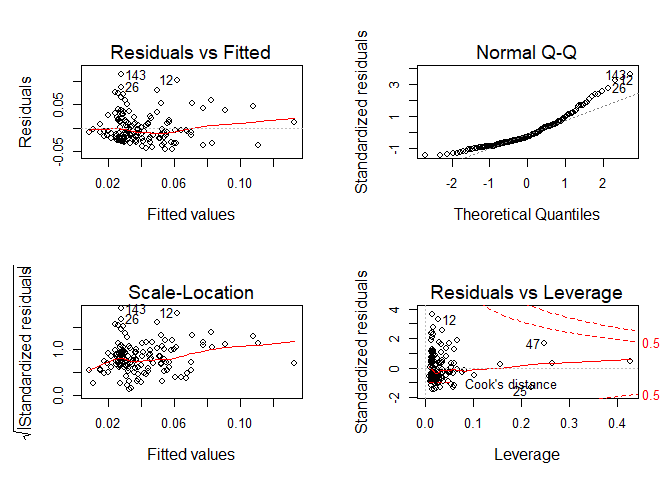
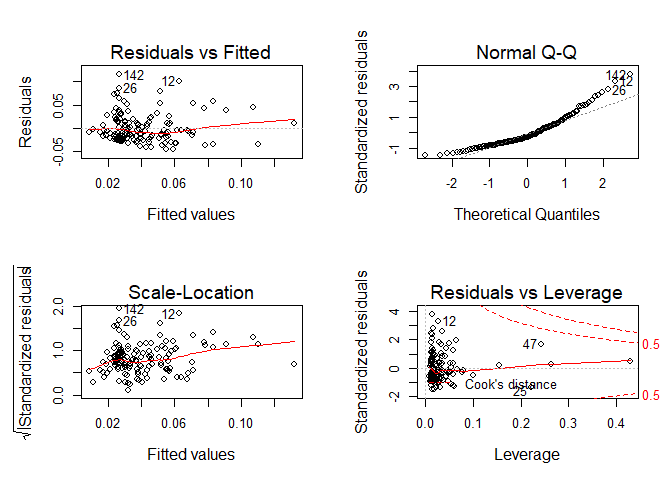
Modified report to fix typos and grammatical errors close #4

diff --git a/doc/report.md b/doc/report.md
@@ -18,31 +18,32 @@ Fanli Zhou
 
 # Summary
 
-In this project, I attempted to use multiple linear regression and GLM
-models to study the relationship between the portion of the senior (age
-65 and up) in the population and the COVID-19 death rate. To approch
-this problem, I tested 11 potential confounding variables and several
-models. My final statistical model is a GLM model including only two
-confounding variables, `med_bed` (the number of hospital beds per 1,000
-people) and `death_100_ind` (the ratio of days with fewer than 100
-accumulated deaths since January 21th, 2020). I assessed the model with
-bootstrapping and provided some evidence that the COVID-19 death rate is
-positively associated with the portion of the senior in the population.
+In this project, I attempted to use multiple linear regression and
+general linear models to study the relationship between the portion of
+the senior (age 65 and up) in the population and the COVID-19 death
+rate. To approach this problem, I tested 11 potential confounding
+variables and several statistical models. My final statistical model is
+a GLM model including only two confounding variables, `med_bed` (the
+number of hospital beds per 1,000 people) and `death_100_ind` (the ratio
+of days with fewer than 100 accumulated deaths from 1/21/2020 to
+5/14/2020). I assessed the model with bootstrapping and provided some
+evidence that the COVID-19 death rate is positively associated with the
+portion of the senior in the population.
 
 # Introduction
 
-The world is fighting with the COVID-19. The COVID-19 is a new disease
-and we are updating our knowledge about it everyday. One well document
+The world is fighting with COVID-19. The COVID-19 is a new disease and
+we are updating our knowledge about it every day. One well document
 factor that leads to death from COVID-19 is age. As reported by the US
 [CDC](https://www.cdc.gov/coronavirus/2019-ncov/need-extra-precautions/older-adults.html),
-adults 65 years old and older have high risk “for developing more
+adults 65 years old and older have a high risk “for developing more
 serious complications from COVID-19 illness” (cdc.gov 2020). In other
-word, the COVID-19 death rate for the senior is higher than that for the
-younger people. This conclusion is based on the COVID-19 deaths
+words, the COVID-19 death rate for the senior is higher than that for
+the younger people. This conclusion is based on the COVID-19 deaths
 statistics in the US.
 
 To further support this conclusion, I decided to study the relationship
-bewteen age and the COVID-19 death rate with data science techniques.
+between age and the COVID-19 death rate with data science techniques.
 Considering that COVID-19 patient information would not be public to
 protect privacy, I would instead study the relationship between
 population aging and the COVID-19 death rate. Here is my research
@@ -57,14 +58,14 @@ associate with the COVID-19 death rate?**
       - The portion of the senior (age 65 and up) in the population is
         not associated with the COVID-19 death rate.
 
-  - Alternative hypothesis
+  - The alternative hypothesis
     (![H\_A](https://latex.codecogs.com/png.latex?H_A "H_A")):
     
       - The portion of the senior (age 65 and up) in the population is
         associated with the COVID-19 death rate.
 
 This study would help address the relationship between age and the
-COVID-19 death rate. And hopefully, it would bring more attentions to
+COVID-19 death rate. And hopefully, it would bring more attention to
 protect the senior people from COVID-19 and protect ourselves.
 
 # Methods
@@ -79,38 +80,38 @@ are from the [data
 repository](https://github.com/CSSEGISandData/COVID-19) for the 2019
 Novel Coronavirus Visual Dashboard operated by the Johns Hopkins
 University Center for Systems Science and Engineering (JHU CSSE). The
-dataset is updated everyday starting from January 22nd, 2020. Both
+dataset is updated every day starting from January 22nd, 2020. Both
 datasets contain columns of location information (`Province/State`,
-`Country/Region`, `Lat`, and `Long`) or daily accumulated number of
+`Country/Region`, `Lat`, and `Long`) or daily accumulated numbers of
 confirmed or deaths in the corresponding location, starting from
-`1/22/20` to present. As stated in the dataset repository, “Australia,
-Canada and China are reported at the province/state level. Dependencies
-of the Netherlands, the UK, France and Denmark are listed under the
-province/state level. The US and other countries are at the country
-level.” The datasets combine data from multiple sources and may contain
-mistakes.
+`1/22/20` to present (`5/14/2020`). As stated in the dataset repository,
+“Australia, Canada and China are reported at the province/state level.
+Dependencies of the Netherlands, the UK, France, and Denmark are listed
+under the province/state level. The US and other countries are at the
+country level.” The datasets combine data from multiple sources and may
+contain mistakes.
 
-Here is information of variables used in this study:
+Here is the information of variables used in this study:
 
-| varaiable Name    | Min   | Max   | Description and Source                                                                                                                                                                                                                                                                                                                                                                                                                                                                                                                                                                                                                                                                                                                                                                                                  |
-| ----------------- | ----- | ----- | ----------------------------------------------------------------------------------------------------------------------------------------------------------------------------------------------------------------------------------------------------------------------------------------------------------------------------------------------------------------------------------------------------------------------------------------------------------------------------------------------------------------------------------------------------------------------------------------------------------------------------------------------------------------------------------------------------------------------------------------------------------------------------------------------------------------------- |
-| `rate`            | 0     | 0.16  | For each country, the death rate is calculated by ![\\frac{N\_{\\text{COVID-19 death}}}{N\_{\\text{COVID-19 confirmed}}}](https://latex.codecogs.com/png.latex?%5Cfrac%7BN_%7B%5Ctext%7BCOVID-19%20death%7D%7D%7D%7BN_%7B%5Ctext%7BCOVID-19%20confirmed%7D%7D%7D "\\frac{N_{\\text{COVID-19 death}}}{N_{\\text{COVID-19 confirmed}}}") with data from [global confirmed](https://github.com/CSSEGISandData/COVID-19/blob/master/csse_covid_19_data/csse_covid_19_time_series/time_series_covid19_confirmed_global.csv) and [global death](https://github.com/CSSEGISandData/COVID-19/blob/master/csse_covid_19_data/csse_covid_19_time_series/time_series_covid19_deaths_global.csv) datasets                                                                                                                           |
-| `age_65up`        | 1.09  | 27.58 | [Population ages 65 and above (% of total population)](https://data.worldbank.org/indicator/SP.POP.65UP.TO.ZS) from the [World Bank Open Data](https://data.worldbank.org/)                                                                                                                                                                                                                                                                                                                                                                                                                                                                                                                                                                                                                                             |
-| `air_pollution`   | 5.86  | 99.73 | [PM2.5 air pollution, mean annual exposure (micrograms per cubic meter)](https://data.worldbank.org/indicator/EN.ATM.PM25.MC.M3) from the World Bank Open Data                                                                                                                                                                                                                                                                                                                                                                                                                                                                                                                                                                                                                                                          |
-| `med_bed`         | 0.1   | 13.4  | [Hospital beds (per 1,000 people)](https://data.worldbank.org/indicator/SH.MED.BEDS.ZS)                                                                                                                                                                                                                                                                                                                                                                                                                                                                                                                                                                                                                                                                                                                                 |
-| `physicians`      | 0     | 8.19  | [Physicians (per 1,000 people)](https://data.worldbank.org/indicator/SH.MED.PHYS.ZS) from the World Bank Open Data                                                                                                                                                                                                                                                                                                                                                                                                                                                                                                                                                                                                                                                                                                      |
-| `nurses_midwives` | 0.06  | 18.12 | [Nurses and midwives (per 1,000 people)](https://data.worldbank.org/indicator/SH.MED.NUMW.P3) from the World Bank Open Data                                                                                                                                                                                                                                                                                                                                                                                                                                                                                                                                                                                                                                                                                             |
-| `pop_density`     | 2.04  | 7953  | [Population density (people per sq. km of land area)](https://data.worldbank.org/indicator/EN.POP.DNST) from the World Bank Open Data                                                                                                                                                                                                                                                                                                                                                                                                                                                                                                                                                                                                                                                                                   |
-| `smoking`         | 2     | 43.4  | [Smoking prevalence, total (ages 15+)](https://data.worldbank.org/indicator/SH.PRV.SMOK) from the World Bank Open Data                                                                                                                                                                                                                                                                                                                                                                                                                                                                                                                                                                                                                                                                                                  |
-| `con_500_ind`     | 0     | 1     | The ratio of days with fewer than 500 confirmed cases (accumulated) is calculated by ![\\frac{N\_{\\text{days with 1-500 confirmed cases since 1/21/2020}}}{N\_{\\text{days with more than one confirmed cases since 1/21/2020}}}](https://latex.codecogs.com/png.latex?%5Cfrac%7BN_%7B%5Ctext%7Bdays%20with%201-500%20confirmed%20cases%20since%201%2F21%2F2020%7D%7D%7D%7BN_%7B%5Ctext%7Bdays%20with%20more%20than%20one%20confirmed%20cases%20since%201%2F21%2F2020%7D%7D%7D "\\frac{N_{\\text{days with 1-500 confirmed cases since 1/21/2020}}}{N_{\\text{days with more than one confirmed cases since 1/21/2020}}}") with data from the [global confirmed](https://github.com/CSSEGISandData/COVID-19/blob/master/csse_covid_19_data/csse_covid_19_time_series/time_series_covid19_confirmed_global.csv) dataset |
-| `death_100_ind`   | 0     | 1     | The ratio of days with fewer than 100 deaths (accumulated) is calculated by ![\\frac{N\_{\\text{days with 1-100 deaths since 1/21/2020}}}{N\_{\\text{days with more than one deaths since 1/21/2020}}}](https://latex.codecogs.com/png.latex?%5Cfrac%7BN_%7B%5Ctext%7Bdays%20with%201-100%20deaths%20since%201%2F21%2F2020%7D%7D%7D%7BN_%7B%5Ctext%7Bdays%20with%20more%20than%20one%20deaths%20since%201%2F21%2F2020%7D%7D%7D "\\frac{N_{\\text{days with 1-100 deaths since 1/21/2020}}}{N_{\\text{days with more than one deaths since 1/21/2020}}}") with data from the [global death](https://github.com/CSSEGISandData/COVID-19/blob/master/csse_covid_19_data/csse_covid_19_time_series/time_series_covid19_deaths_global.csv) dataset                                                                           |
-| `confirmed_rate`  | 0     | 0.04  | The confirmed rate is calculated by ![\\frac{N\_{\\text{COVID-19 confirmed}}}{N\_{\\text{population}}}](https://latex.codecogs.com/png.latex?%5Cfrac%7BN_%7B%5Ctext%7BCOVID-19%20confirmed%7D%7D%7D%7BN_%7B%5Ctext%7Bpopulation%7D%7D%7D "\\frac{N_{\\text{COVID-19 confirmed}}}{N_{\\text{population}}}") with data from the [global confirmed](https://github.com/CSSEGISandData/COVID-19/blob/master/csse_covid_19_data/csse_covid_19_time_series/time_series_covid19_confirmed_global.csv) dataset and the [population, total](https://data.worldbank.org/indicator/SP.POP.TOTL) dataset from the World Bank Open Data                                                                                                                                                                                              |
-| `gov_resp`        | 18.25 | 100   | This value is the highest stringency index for each country from the [Oxford Covid-19 Government Response Tracker data](https://raw.githubusercontent.com/OxCGRT/covid-policy-tracker/master/data/OxCGRT_latest.csv) from the [Oxford Covid-19 Government Response Tracker repository](https://github.com/OxCGRT/covid-policy-tracker/)                                                                                                                                                                                                                                                                                                                                                                                                                                                                                 |
-| `ind_80`          | 0.15  | 1     | This index is calculated by ![\\frac{N\_{\\text{days with 0-80 stringency index since 1/21/2020}}}{N\_{\\text{days since 1/21/2020}}}](https://latex.codecogs.com/png.latex?%5Cfrac%7BN_%7B%5Ctext%7Bdays%20with%200-80%20stringency%20index%20since%201%2F21%2F2020%7D%7D%7D%7BN_%7B%5Ctext%7Bdays%20since%201%2F21%2F2020%7D%7D%7D "\\frac{N_{\\text{days with 0-80 stringency index since 1/21/2020}}}{N_{\\text{days since 1/21/2020}}}") with data from the [Oxford Covid-19 Government Response Tracker data](https://raw.githubusercontent.com/OxCGRT/covid-policy-tracker/master/data/OxCGRT_latest.csv)                                                                                                                                                                                                        |
+| varaiable Name    | Min   | Max   | Description and Source                                                                                                                                                                                                                                                                                                                                                                                                                                                                                                                                                                                                                                                                                                                                                                                                                              |
+| ----------------- | ----- | ----- | --------------------------------------------------------------------------------------------------------------------------------------------------------------------------------------------------------------------------------------------------------------------------------------------------------------------------------------------------------------------------------------------------------------------------------------------------------------------------------------------------------------------------------------------------------------------------------------------------------------------------------------------------------------------------------------------------------------------------------------------------------------------------------------------------------------------------------------------------- |
+| `rate`            | 0     | 0.16  | For each country, the death rate (by 5/14/2020) is calculated by ![\\frac{N\_{\\text{COVID-19 death}}}{N\_{\\text{COVID-19 confirmed}}}](https://latex.codecogs.com/png.latex?%5Cfrac%7BN_%7B%5Ctext%7BCOVID-19%20death%7D%7D%7D%7BN_%7B%5Ctext%7BCOVID-19%20confirmed%7D%7D%7D "\\frac{N_{\\text{COVID-19 death}}}{N_{\\text{COVID-19 confirmed}}}") with data from [global confirmed](https://github.com/CSSEGISandData/COVID-19/blob/master/csse_covid_19_data/csse_covid_19_time_series/time_series_covid19_confirmed_global.csv) and [global death](https://github.com/CSSEGISandData/COVID-19/blob/master/csse_covid_19_data/csse_covid_19_time_series/time_series_covid19_deaths_global.csv) datasets                                                                                                                                        |
+| `age_65up`        | 1.09  | 27.58 | [Population ages 65 and above (% of total population)](https://data.worldbank.org/indicator/SP.POP.65UP.TO.ZS) from the [World Bank Open Data](https://data.worldbank.org/)                                                                                                                                                                                                                                                                                                                                                                                                                                                                                                                                                                                                                                                                         |
+| `air_pollution`   | 5.86  | 99.73 | [PM2.5 air pollution, mean annual exposure (micrograms per cubic meter)](https://data.worldbank.org/indicator/EN.ATM.PM25.MC.M3) from the World Bank Open Data                                                                                                                                                                                                                                                                                                                                                                                                                                                                                                                                                                                                                                                                                      |
+| `med_bed`         | 0.1   | 13.4  | [Hospital beds (per 1,000 people)](https://data.worldbank.org/indicator/SH.MED.BEDS.ZS)                                                                                                                                                                                                                                                                                                                                                                                                                                                                                                                                                                                                                                                                                                                                                             |
+| `physicians`      | 0     | 8.19  | [Physicians (per 1,000 people)](https://data.worldbank.org/indicator/SH.MED.PHYS.ZS) from the World Bank Open Data                                                                                                                                                                                                                                                                                                                                                                                                                                                                                                                                                                                                                                                                                                                                  |
+| `nurses_midwives` | 0.06  | 18.12 | [Nurses and midwives (per 1,000 people)](https://data.worldbank.org/indicator/SH.MED.NUMW.P3) from the World Bank Open Data                                                                                                                                                                                                                                                                                                                                                                                                                                                                                                                                                                                                                                                                                                                         |
+| `pop_density`     | 2.04  | 7953  | [Population density (people per sq. km of land area)](https://data.worldbank.org/indicator/EN.POP.DNST) from the World Bank Open Data                                                                                                                                                                                                                                                                                                                                                                                                                                                                                                                                                                                                                                                                                                               |
+| `smoking`         | 2     | 43.4  | [Smoking prevalence, total (ages 15+)](https://data.worldbank.org/indicator/SH.PRV.SMOK) from the World Bank Open Data                                                                                                                                                                                                                                                                                                                                                                                                                                                                                                                                                                                                                                                                                                                              |
+| `con_500_ind`     | 0     | 1     | The ratio of days with fewer than 500 confirmed cases (accumulated) is calculated by ![\\frac{N\_{\\text{days with 1-500 confirmed cases 1/21/2020-5/14/2020}}}{N\_{\\text{days with more than one confirmed cases 1/21/2020-5/14/2020}}}](https://latex.codecogs.com/png.latex?%5Cfrac%7BN_%7B%5Ctext%7Bdays%20with%201-500%20confirmed%20cases%201%2F21%2F2020-5%2F14%2F2020%7D%7D%7D%7BN_%7B%5Ctext%7Bdays%20with%20more%20than%20one%20confirmed%20cases%201%2F21%2F2020-5%2F14%2F2020%7D%7D%7D "\\frac{N_{\\text{days with 1-500 confirmed cases 1/21/2020-5/14/2020}}}{N_{\\text{days with more than one confirmed cases 1/21/2020-5/14/2020}}}") with data from the [global confirmed](https://github.com/CSSEGISandData/COVID-19/blob/master/csse_covid_19_data/csse_covid_19_time_series/time_series_covid19_confirmed_global.csv) dataset |
+| `death_100_ind`   | 0     | 1     | The ratio of days with fewer than 100 deaths (accumulated) is calculated by ![\\frac{N\_{\\text{days with 1-100 deaths 1/21/2020-5/14/2020}}}{N\_{\\text{days with more than one deaths since 1/21/2020-5/14/2020}}}](https://latex.codecogs.com/png.latex?%5Cfrac%7BN_%7B%5Ctext%7Bdays%20with%201-100%20deaths%201%2F21%2F2020-5%2F14%2F2020%7D%7D%7D%7BN_%7B%5Ctext%7Bdays%20with%20more%20than%20one%20deaths%20since%201%2F21%2F2020-5%2F14%2F2020%7D%7D%7D "\\frac{N_{\\text{days with 1-100 deaths 1/21/2020-5/14/2020}}}{N_{\\text{days with more than one deaths since 1/21/2020-5/14/2020}}}") with data from the [global death](https://github.com/CSSEGISandData/COVID-19/blob/master/csse_covid_19_data/csse_covid_19_time_series/time_series_covid19_deaths_global.csv) dataset                                                       |
+| `confirmed_rate`  | 0     | 0.04  | The confirmed rate (by 5/14/2020) is calculated by ![\\frac{N\_{\\text{COVID-19 confirmed}}}{N\_{\\text{population}}}](https://latex.codecogs.com/png.latex?%5Cfrac%7BN_%7B%5Ctext%7BCOVID-19%20confirmed%7D%7D%7D%7BN_%7B%5Ctext%7Bpopulation%7D%7D%7D "\\frac{N_{\\text{COVID-19 confirmed}}}{N_{\\text{population}}}") with data from the [global confirmed](https://github.com/CSSEGISandData/COVID-19/blob/master/csse_covid_19_data/csse_covid_19_time_series/time_series_covid19_confirmed_global.csv) dataset and the [population, total](https://data.worldbank.org/indicator/SP.POP.TOTL) dataset from the World Bank Open Data                                                                                                                                                                                                           |
+| `gov_resp`        | 18.25 | 100   | This value is the highest stringency index (by 5/14/2020) for each country from the [Oxford Covid-19 Government Response Tracker data](https://raw.githubusercontent.com/OxCGRT/covid-policy-tracker/master/data/OxCGRT_latest.csv) from the [Oxford Covid-19 Government Response Tracker repository](https://github.com/OxCGRT/covid-policy-tracker/)                                                                                                                                                                                                                                                                                                                                                                                                                                                                                              |
+| `ind_80`          | 0.15  | 1     | This index is calculated by ![\\frac{N\_{\\text{days with 0-80 stringency index 1/21/2020-5/14/2020}}}{N\_{\\text{days 1/21/2020-5/14/2020}}}](https://latex.codecogs.com/png.latex?%5Cfrac%7BN_%7B%5Ctext%7Bdays%20with%200-80%20stringency%20index%201%2F21%2F2020-5%2F14%2F2020%7D%7D%7D%7BN_%7B%5Ctext%7Bdays%201%2F21%2F2020-5%2F14%2F2020%7D%7D%7D "\\frac{N_{\\text{days with 0-80 stringency index 1/21/2020-5/14/2020}}}{N_{\\text{days 1/21/2020-5/14/2020}}}") with data from the [Oxford Covid-19 Government Response Tracker data](https://raw.githubusercontent.com/OxCGRT/covid-policy-tracker/master/data/OxCGRT_latest.csv)                                                                                                                                                                                                        |
 
 ## Analysis Methods
 
-The multiple linear regression, GLM (General Linear Model) and
+The multiple linear regression, GLM (General Linear Model), and
 bootstrapping algorithms or methods were used to study the relationship
 between the COVID-19 death rate and the portion of the senior. The
 Python programming language (Van Rossum and Drake 2009), the R
@@ -215,14 +216,14 @@ accurate model but is highly interpretable. To answer my research
 questions, I would sacrifice some accuracy for interpretability.
 
 I first tried the full model, which includes all confounding variables,
-and picked out potential useful confounding variables based on statistic
-significance (p-value \< 0.05). Then I tested reduced models to decide
-which variables to include in the final model. Considering that I was
-doing multiple testing, I controlled for multiple comparisons using
-Benjamini & Hochberg (BH) False Discovery Rate (FDR) adjustment (setting
-FDR to 5%). A detailed analysis process is in my [EDA
+and picked out potential useful confounding variables based on
+statistical significance (p-value \< 0.05). Then I tested reduced models
+to decide which variables to include in the final model. Considering
+that I was doing multiple testing, I controlled for multiple comparisons
+using Benjamini & Hochberg (BH) False Discovery Rate (FDR) adjustment
+(setting FDR to 5%). A detailed analysis process is in my [EDA
 notebook](https://github.com/flizhou/age_effects_on_COVID-19/blob/master/scripts/eda.ipynb).
-Based on these analysis, my final model only includes `med_bed`,
+Based on these analyses, my final model only includes `med_bed`,
 `death_100_ind`, and `confirmed_rate` as confounding variables.
 
 ``` r
@@ -260,12 +261,12 @@ head(df_sub)
     ## # A tibble: 6 x 6
     ##   country       rate age_65up med_bed death_100_ind confirmed_rate
     ##   <chr>        <dbl>    <dbl>   <dbl>         <dbl>          <dbl>
-    ## 1 Afghanistan 0.0241     2.58     0.5         0.889     0.000152  
-    ## 2 Albania     0.0345    13.7      2.9         1         0.000313  
-    ## 3 Algeria     0.0821     6.36     1.9         0.475     0.000153  
+    ## 1 Afghanistan 0.0253     2.58     0.5         0.878     0.000163  
+    ## 2 Albania     0.0338    13.7      2.9         1         0.000320  
+    ## 3 Algeria     0.0809     6.36     1.9         0.469     0.000157  
     ## 4 Angola      0.0417     2.22     0.8         1         0.00000156
-    ## 5 Argentina   0.0495    11.1      5           0.575     0.000160  
-    ## 6 Australia   0.0140    15.7      3.8         0.545     0.00225
+    ## 5 Argentina   0.0476    11.1      5           0.568     0.000168  
+    ## 6 Australia   0.0139    15.7      3.8         0.541     0.00225
 
 ``` r
 # the final multiple linear regression model
@@ -277,11 +278,11 @@ analyze_lm(model_1)
     ## # A tibble: 5 x 7
     ##   term         estimate std.error statistic   p.value p.value.adjust significant
     ##   <chr>           <dbl>     <dbl>     <dbl>     <dbl>          <dbl> <lgl>      
-    ## 1 (Intercept)   0.0639   0.0130        4.93   2.32e-6      0.0000116 TRUE       
-    ## 2 age_65up      0.00158  0.000622      2.53   1.25e-2      0.0156    TRUE       
-    ## 3 med_bed      -0.00333  0.00151      -2.20   2.91e-2      0.0291    TRUE       
-    ## 4 death_100_i~ -0.0383   0.0124       -3.10   2.35e-3      0.00588   TRUE       
-    ## 5 confirmed_r~  1.65     0.596         2.77   6.28e-3      0.0105    TRUE
+    ## 1 (Intercept)   0.0631   0.0126        5.00   1.72e-6     0.00000861 TRUE       
+    ## 2 age_65up      0.00162  0.000610      2.66   8.75e-3     0.0109     TRUE       
+    ## 3 med_bed      -0.00316  0.00148      -2.13   3.51e-2     0.0351     TRUE       
+    ## 4 death_100_i~ -0.0393   0.0120       -3.26   1.39e-3     0.00348    TRUE       
+    ## 5 confirmed_r~  1.61     0.576         2.80   5.79e-3     0.00964    TRUE
 
 To assess this model, I checked whether the “LINE” conditions for
 multiple linear regression hold. The data were collected in each country
@@ -312,7 +313,7 @@ rstatix::shapiro_test(residuals(model_1))
     ## # A tibble: 1 x 3
     ##   variable           statistic      p.value
     ##   <chr>                  <dbl>        <dbl>
-    ## 1 residuals(model_1)     0.903 0.0000000315
+    ## 1 residuals(model_1)     0.905 0.0000000418
 
 ``` r
 # Compute Bartlett test of homogeneity of variances
@@ -324,7 +325,7 @@ df_sub[-1] %>%
     ##  Bartlett test of homogeneity of variances
     ## 
     ## data:  .
-    ## Bartlett's K-squared = 3706.3, df = 4, p-value < 2.2e-16
+    ## Bartlett's K-squared = 3676.3, df = 4, p-value < 2.2e-16
 
 First, check the Residuals vs Fitted plot for the linearity assumption.
 Residuals should have zero expectations at each fitted value. There are
@@ -335,17 +336,17 @@ Squares Estimator) might be biased and even inconsistent.
 Second, check the Normal Q-Q plot for the normality assumption.
 Deviations of the lower and upper tails from the straight line indicates
 that the distribution of residuals does not conform to a normal
-distribution (right skewed in this case). Besides, the Shapiro-Wilk test
+distribution (right-skewed in this case). Besides, the Shapiro-Wilk test
 of normality is significant. So the normality assumption is violated.
 
 Third, check the Scale-Location plot for the equal variance assumption.
-There is a overall positive trend in the plot so the variance is not
+There is an overall positive trend in the plot so the variance is not
 constant. Besides, the Bartlett test of homogeneity of variances is
 significant. So the equal variance assumption does not hold and the LSE
 may not be the BLUE (Best Linear Unbiased Estimator).
 
 Finally, check the Residuals vs. Leverage plot for influential points.
-Three point are labeled for high Cook’s distance values.
+Three points are labeled for high Cook’s distance values.
 
 The model violates most of the “LINE” conditions. I next considered
 improving the model with data transformation and GLM (General Linear
@@ -354,8 +355,8 @@ Model).
 ## 2\. Data transformation and GLM
 
 I tried to improve the model by trial and error. Here is the final model
-I got. The final model was the best model identified, but not necessary
-the best model.
+I got. The final model was the best identified, but not necessarily the
+best model.
 
 ``` r
 model_2 <- df_sub %>%
@@ -370,11 +371,11 @@ analyze_lm(model_2)
     ## # A tibble: 5 x 7
     ##   term          estimate std.error statistic  p.value p.value.adjust significant
     ##   <chr>            <dbl>     <dbl>     <dbl>    <dbl>          <dbl> <lgl>      
-    ## 1 (Intercept)    0.0748   0.0178        4.21  4.51e-5      0.000113  TRUE       
-    ## 2 log(age_65up)  0.0138   0.00355       3.88  1.63e-4      0.000272  TRUE       
-    ## 3 log(med_bed)  -0.0102   0.00334      -3.06  2.67e-3      0.00267   TRUE       
-    ## 4 log(death_10~ -0.113    0.0245       -4.61  8.91e-6      0.0000446 TRUE       
-    ## 5 log(confirme~ -0.00312  0.000981     -3.18  1.79e-3      0.00223   TRUE
+    ## 1 (Intercept)    0.0751   0.0176        4.27  3.56e-5      0.0000890 TRUE       
+    ## 2 log(age_65up)  0.0133   0.00356       3.74  2.65e-4      0.000441  TRUE       
+    ## 3 log(med_bed)  -0.00936  0.00333      -2.81  5.62e-3      0.00562   TRUE       
+    ## 4 log(death_10~ -0.112    0.0242       -4.64  8.02e-6      0.0000401 TRUE       
+    ## 5 log(confirme~ -0.00299  0.000976     -3.07  2.62e-3      0.00327   TRUE
 
 Again I checked whether the “LINE” conditions hold to assess the model.
 The independence assumption is reasonable as before. For the rest
@@ -395,7 +396,7 @@ rstatix::shapiro_test(residuals(model_2))
     ## # A tibble: 1 x 3
     ##   variable           statistic p.value
     ##   <chr>                  <dbl>   <dbl>
-    ## 1 residuals(model_2)     0.985   0.120
+    ## 1 residuals(model_2)     0.984   0.103
 
 ``` r
 # Compute Bartlett test of homogeneity of variances
@@ -408,7 +409,7 @@ df_sub[-1] %>%
     ##  Bartlett test of homogeneity of variances
     ## 
     ## data:  .
-    ## Bartlett's K-squared = 3708.5, df = 4, p-value < 2.2e-16
+    ## Bartlett's K-squared = 3678.4, df = 4, p-value < 2.2e-16
 
 First, the averages of residuals are slightly smaller than zero in the
 Residuals vs Fitted plot but may not be a big problem. I would say that
@@ -422,11 +423,11 @@ evidence that the normality assumption could be reasonable.
 Third, the Scale-Location plot has some trends so the variance is not
 constant. And the Bartlett test of homogeneity of variances is
 significant. So the normality assumption could not hold. Finally, three
-point are labeled for high Cook’s distance values in the Residuals
+points are labeled for high Cook’s distance values in the Residuals
 vs. Leverage plot.
 
 The final model still violates some of the “LINE” conditions. So it may
-be not be reasonable to use the theoretical inferential conclusions.
+not be reasonable to use the theoretical inferential conclusions.
 Instead, I used bootstrapping as an alternative approach to statistical
 inference.
 
@@ -458,7 +459,11 @@ boot_results <- df_sub %>%
            tidy = map(lm, broom::tidy)) %>% 
     select(-splits, -lm) %>% 
     unnest(tidy)
+```
 
+    ## Warning: glm.fit: algorithm did not converge
+
+``` r
 plot_results(boot_results, "log(age_65up)", model_3_results)
 ```
 
@@ -490,8 +495,8 @@ Gamma-distribution dependent variable. My final model is:
 
 ![\\frac{132\\text{rate}+2}{133}](https://latex.codecogs.com/png.latex?%5Cfrac%7B132%5Ctext%7Brate%7D%2B2%7D%7B133%7D
 "\\frac{132\\text{rate}+2}{133}")
-![=\\0.103+\\0.0133\\text{log(age\\\_65up)}-\\0.0149\\text{log(med\\\_bed)}-\\0.103\\text{log(death\\\_100\\\_ind+1)}](https://latex.codecogs.com/png.latex?%3D%5C0.103%2B%5C0.0133%5Ctext%7Blog%28age%5C_65up%29%7D-%5C0.0149%5Ctext%7Blog%28med%5C_bed%29%7D-%5C0.103%5Ctext%7Blog%28death%5C_100%5C_ind%2B1%29%7D
-"=\\0.103+\\0.0133\\text{log(age\\_65up)}-\\0.0149\\text{log(med\\_bed)}-\\0.103\\text{log(death\\_100\\_ind+1)}")
+![=\\0.0850+\\0.0144\\text{log(age\\\_65up)}-\\0.0137\\text{log(med\\\_bed)}-\\0.0829\\text{log(death\\\_100\\\_ind+1)}](https://latex.codecogs.com/png.latex?%3D%5C0.0850%2B%5C0.0144%5Ctext%7Blog%28age%5C_65up%29%7D-%5C0.0137%5Ctext%7Blog%28med%5C_bed%29%7D-%5C0.0829%5Ctext%7Blog%28death%5C_100%5C_ind%2B1%29%7D
+"=\\0.0850+\\0.0144\\text{log(age\\_65up)}-\\0.0137\\text{log(med\\_bed)}-\\0.0829\\text{log(death\\_100\\_ind+1)}")
 
 where the response (rate) follows a Gamma distribution. I understand
 that this is a simplified model and I may not include all possible
@@ -510,12 +515,12 @@ data used in this analysis are not up-to-date. And the government
 response index, the stringency index from the [Oxford Covid-19
 Government Response Tracker
 data](https://raw.githubusercontent.com/OxCGRT/covid-policy-tracker/master/data/OxCGRT_latest.csv),
-is subjective and may not reflect how effective the goernment response
+is subjective and may not reflect how effective the government response
 was. Another big limitation that I could not include all possible
 confounding variables in this analysis and I may have ignored some
 important confounding variables. The best way to analyze the
 relationship between age and the COVID-19 death rate is by conducting
-well-designed experiments that control confouding variables.
+well-designed experiments that control confounding variables.
 
 # References
 
